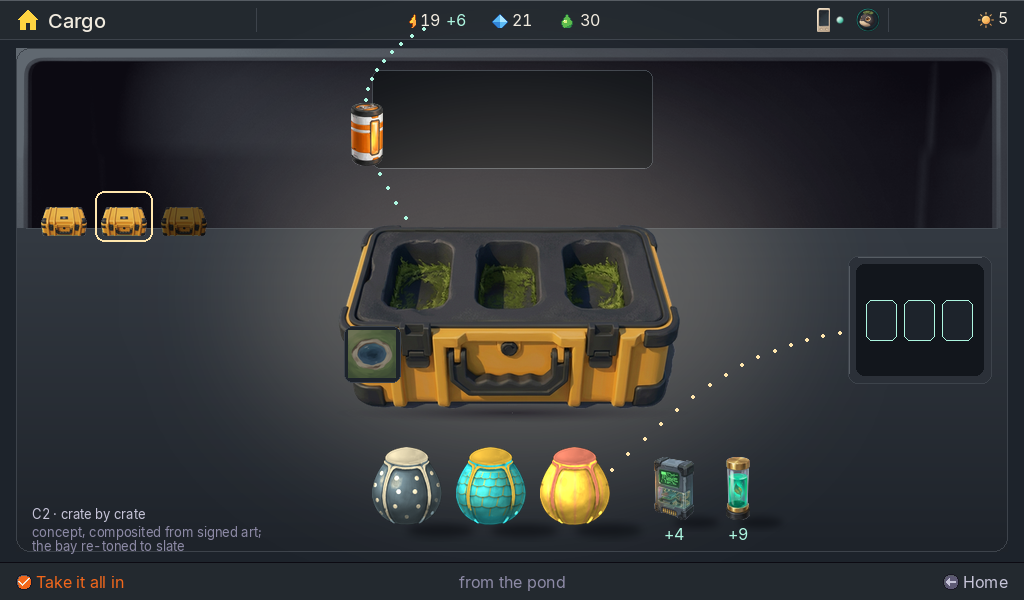
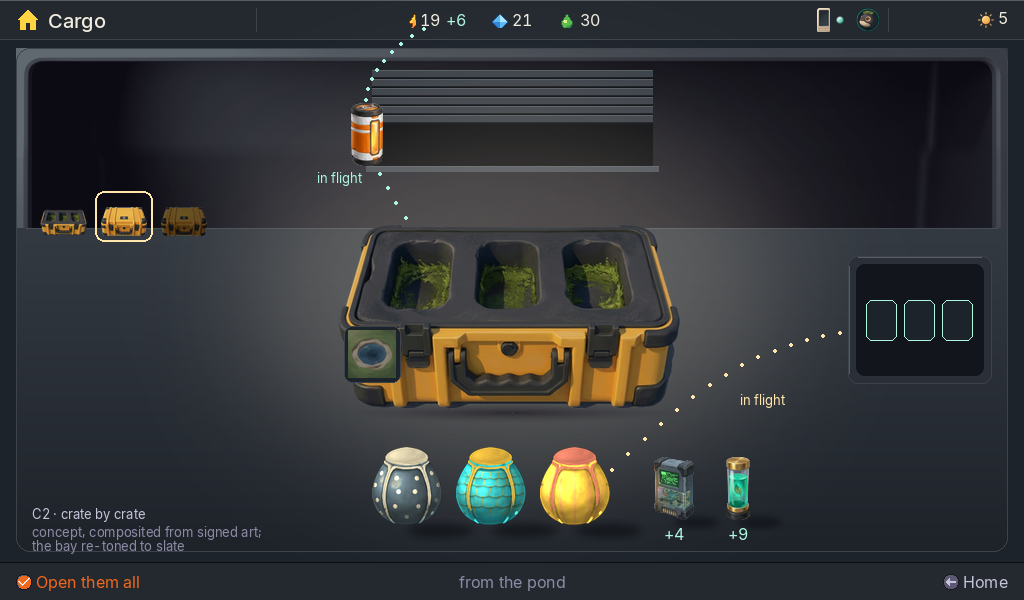
T-20261016-171: the door as a door, done crate opened, Open them all, in-flight captions

diff --git a/results/T-20261016-171/make-c2.py b/results/T-20261016-171/make-c2.py
@@ -88,17 +88,28 @@ for k, n, plus in (('energy', '19', '+6'), ('data', '21', ''), ('essence', '30',
 bay = slate_bay(992, 504)
 im.alpha_composite(bay, (16, 48))
 d.rounded_rectangle((16, 48, 1007, 551), 14, outline=C['hairline'])
-d.rounded_rectangle((372, 70, 652, 168), 8, fill=(14, 17, 22), outline=C['hairline'])          # the door
-d.line((380, 168, 644, 168), fill=C['bevel'])
+# the door: the opening the crates came through, its shutter rolled most of the way up (no outline)
+d.rectangle((372, 70, 652, 168), fill=(10, 12, 16))
+for i in range(6):                                            # the shutter's slats, lit from above
+    y = 70 + i * 9
+    d.rectangle((372, y, 652, y + 7), fill=(58, 64, 72))
+    d.line((372, y, 652, y), fill=(84, 90, 98))
+    d.line((372, y + 7, 652, y + 7), fill=(22, 26, 32))
+d.rectangle((372, 124, 652, 168), fill=(8, 10, 14))           # the dark beyond, where the crates come from
+d.rectangle((366, 166, 658, 171), fill=(70, 77, 85))          # the sill
+d.line((366, 166, 658, 166), fill=C['bevel'])
 light = Image.new('L', (1024, 600), 0); ImageDraw.Draw(light).ellipse((250, 120, 780, 470), fill=58)
 warm = Image.new('RGBA', (1024, 600), (255, 236, 210, 0)); warm.putalpha(light.filter(ImageFilter.GaussianBlur(60))); im.alpha_composite(warm)
 # the crates of this dock: done, this one, still sealed
 for i, (st, ring) in enumerate((('done', False), ('now', True), ('sealed', False))):
     c = src('crate-sitting-48x40.png')
+    if st == 'done':                                          # opened and emptied: the open crate, small
+        c = src('crate-open-432x272.png').resize((52, 33), Image.LANCZOS)
+        cc = Image.new('RGBA', (52, 40), (0, 0, 0, 0)); cc.alpha_composite(c, (0, 7)); c = cc
     if st == 'sealed':
         a = np.asarray(c, dtype=float); a[..., :3] *= 0.45; c = Image.fromarray(a.astype('uint8'), 'RGBA')
     cx = 40 + i * 60
-    im.alpha_composite(c, (cx, 196))
+    im.alpha_composite(c, (cx - (2 if st == 'done' else 0), 196))
     if ring:
         d.rounded_rectangle((cx - 5, 191, cx + 52, 241), 9, outline=C['focus'], width=2)
 # the crate, opened, painted large, with its trip's place
@@ -130,6 +141,7 @@ for t in np.linspace(0, 1, 40):
 for i in range(4, 40, 2):
     d.ellipse((pts[i][0] - 1.5, pts[i][1] - 1.5, pts[i][0] + 1.5, pts[i][1] + 1.5), fill=C['mint'] + (int(255 * i / 40),))
 im.alpha_composite(cell, (int(pts[16][0]) - 24, int(pts[16][1]) - 32))
+d.text((int(pts[16][0]) - 50, int(pts[16][1]) + 36), 'in flight', font=F13, fill=C['mint'])
 # the Pods hatch, open only while the pods fly: the wells they land in
 pane(d, 848, 256, 144, 128, 10, 'panel')
 d.rounded_rectangle((856, 264, 983, 375), 8, fill=(18, 22, 28))
@@ -140,9 +152,10 @@ for i in range(0, 30, 2):
     t = i / 30
     x_, y_ = 612 + (856 - 612) * t, 470 - (470 - 330) * t - 30 * math.sin(math.pi * t)
     d.ellipse((x_ - 1.5, y_ - 1.5, x_ + 1.5, y_ + 1.5), fill=C['focus'])
+d.text((740, 392), 'in flight', font=F13, fill=C['focus'])
 # the frame's bottom line
 d.rectangle((0, 562, 1023, 599), fill=C['bar']); d.line((0, 562, 1023, 562), fill=C['void'])
-im.alpha_composite(src('frame-cap-confirm-16.png'), (16, 574)); d.text((36, 572), 'Take it all in', font=F16, fill=C['orange'])
+im.alpha_composite(src('frame-cap-confirm-16.png'), (16, 574)); d.text((36, 572), 'Open them all', font=F16, fill=C['orange'])
 d.text((512, 582), 'from the pond', font=F16, fill=C['mist'], anchor='mm')
 im.alpha_composite(src('frame-cap-back-16.png'), (int(1008 - 4 - F16.getlength('Home') - 16), 574))
 d.text((1008, 582), 'Home', font=F16, fill=C['fog'], anchor='rm')

diff --git a/results/T-20261016-171.md b/results/T-20261016-171.md
@@ -24,7 +24,7 @@ One concept at 1024×600, 1×, labelled inside the image: `results/T-20261016-17
 - **Its contents** lie out in front as the things themselves: three pods as their species' own shells (Loika, Tuikis, Tepor, from the pod renderer's layers), a Data cartridge with "+4" and an Essence vial with "+9". Each sits on the floor with its shadow.
 - **Energy goes to stock:** the cell is in flight, part-way along a `mint` path from the crate to the top bar's counter, which reads 19 +6. The top bar is the Station's stock (review §3.4).
 - **The pods go to Pods:** they leave through the Pods hatch. It is open only while they fly and shows only the three wells they land in, along a `focus` path.
-- **The bottom line:** ✓ Take it all in, then "from the pond", then ← Home. Any key steps to the next crate (review §3.4); that is the motion, not a word on screen.
+- **The bottom line:** ✓ Open them all (was "Take it all in"), then "from the pond", then ← Home. Any key steps to the next crate (review §3.4); that is the motion, not a word on screen.
 
 ## Proof: the five acceptance tests (`specs/redesign-cargo.md`)
 | # | The owner, 06:38 | C2 |
@@ -36,6 +36,13 @@ One concept at 1024×600, 1×, labelled inside the image: `results/T-20261016-17
 | 5 | "relyes more on text and tiny icons" | One crate painted large, its contents at size, the flows drawn; the only words are the frame's and "+n" |
 
 Run: `python3 results/T-20261016-171/make-c2.py <src> <fonts> results/T-20261016-171` printed the file. Checked by eye at 1×.
+
+## Update: the gates' fixes
+- **The door** (creative director, blocking): the back wall's opening, which the crates came through, is now drawn as one. Its shutter is rolled most of the way up, the dark beyond it, and a lit sill. No outline.
+- **"in flight"** captions the two dotted paths (Energy to the counter, the pods to the hatch).
+- **✓ is "Open them all"** (game designer): it runs this dock's opening to its end. The accept was "Open the bay".
+- **The done crate** in the queue is drawn opened and empty, so the queue shows how far along the player is.
+- **Moss** appears only in the crate's own packing, never in anything the machine holds.
 
 ## Goldens
 None. This is a concept for the device sheet.
